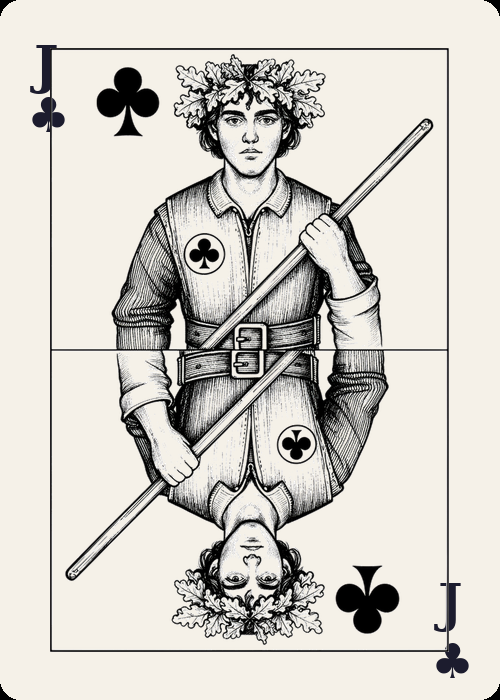
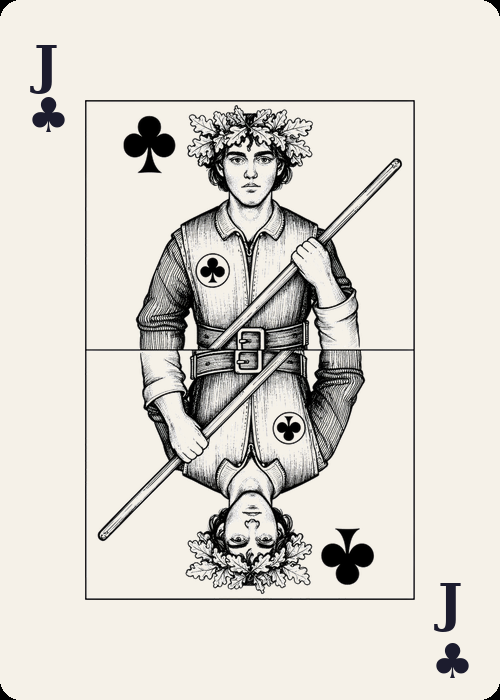
Enhance ClassicTheme gutters for AI art placement and clarify corner gutter usage

Changed region(s): [[0.09, 0.06, 0.9, 0.93]]

diff --git a/scripts/generate_cards.py b/scripts/generate_cards.py
@@ -343,7 +343,8 @@ class ClassicTheme(Theme):
     BLACK = (28, 28, 46)
     BACK_BG = (26, 77, 46)  # dark green
     BACK_ACCENT = (201, 168, 76)  # gold
-    CORNER_GUTTER = 48
+    CORNER_GUTTER = 48    # horizontal — matches corner text column width
+    CORNER_V_GUTTER = 100  # vertical — clears full corner text block height
 
     # Cache extracted AI center images to avoid re-processing
     _center_cache: dict[str, Image.Image] = {}
@@ -425,10 +426,11 @@ class ClassicTheme(Theme):
         if rank in _AI_RANKS:
             center_art = self._get_center_art(rank, suit)
             if center_art is not None:
-                # Keep AI art inside the same gutter width reserved for corners.
-                gutter = self.CORNER_GUTTER
-                area_w = self.W - 2 * gutter
-                area_h = self.H - 2 * gutter
+                # Keep AI art inside the gutters reserved for corner text.
+                gutter_x = self.CORNER_GUTTER
+                gutter_y = self.CORNER_V_GUTTER
+                area_w = self.W - 2 * gutter_x
+                area_h = self.H - 2 * gutter_y
 
                 art_w, art_h = center_art.size
                 scale = min(area_w / art_w, area_h / art_h)
@@ -436,8 +438,8 @@ class ClassicTheme(Theme):
                 new_h = int(art_h * scale)
                 resized = center_art.resize((new_w, new_h), Image.Resampling.LANCZOS)
 
-                paste_x = gutter + (area_w - new_w) // 2
-                paste_y = gutter + (area_h - new_h) // 2
+                paste_x = gutter_x + (area_w - new_w) // 2
+                paste_y = gutter_y + (area_h - new_h) // 2
 
                 self._pending_paste = (resized, paste_x, paste_y)
                 return
